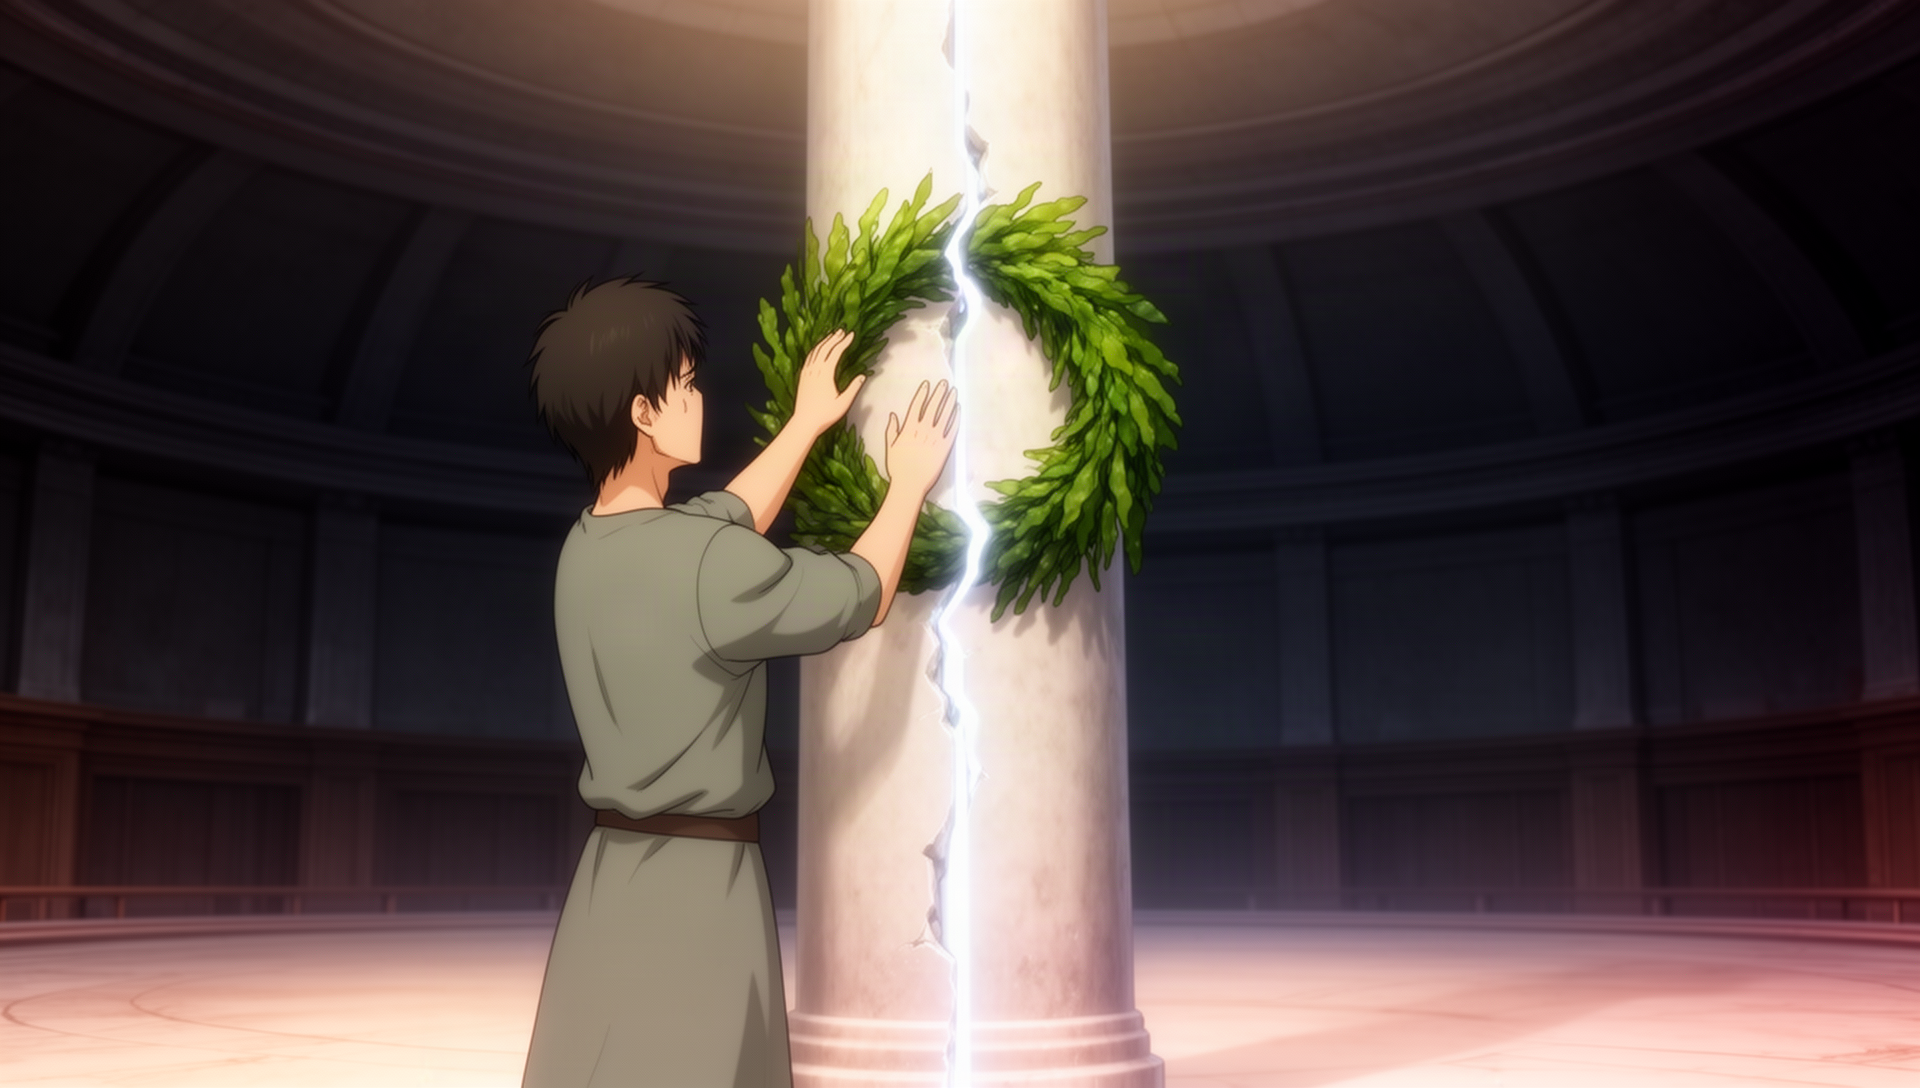
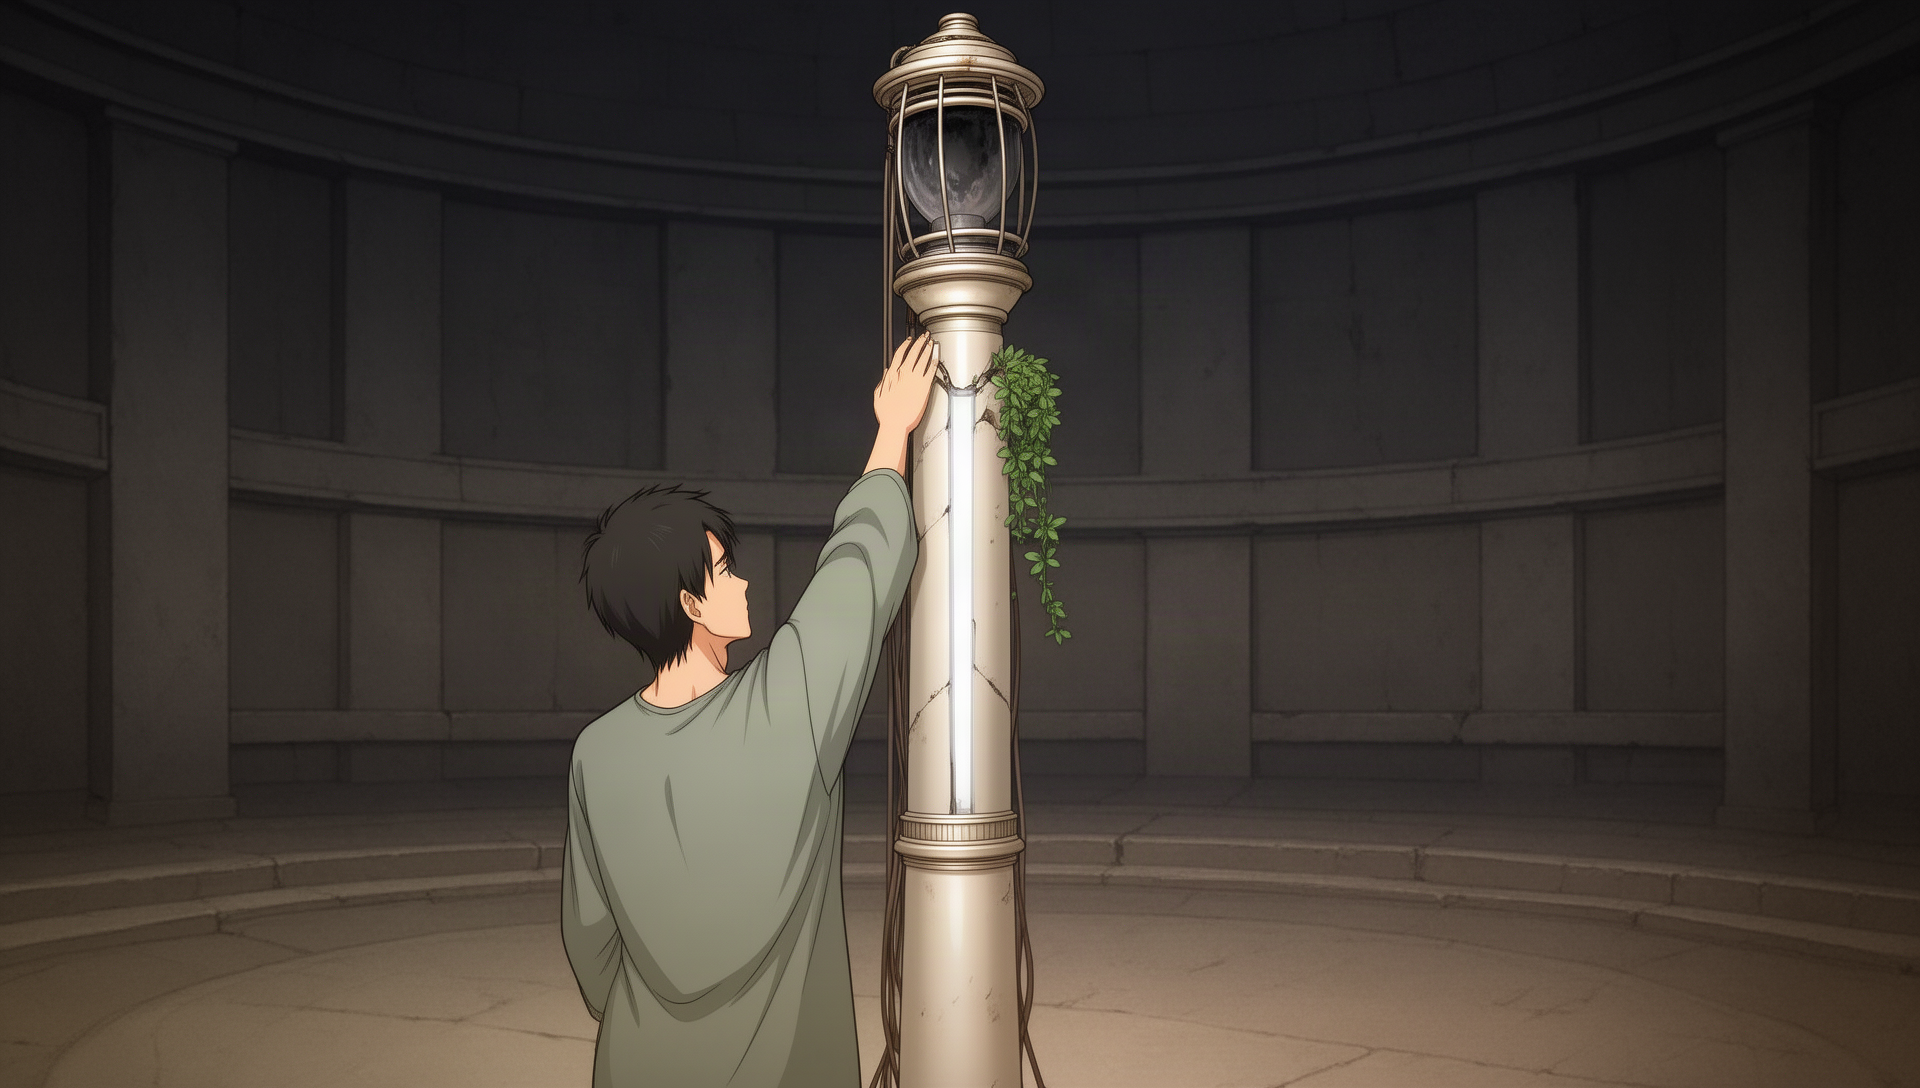
Maker lamp redesigned as a real old lamp; hall and two illustrations redone

diff --git a/art/bible.md b/art/bible.md
@@ -34,11 +34,15 @@ Wide 16:9, same style, no people. From the text (sentence ids from `work/units/c
 
 Wrack's second outfit, the sea-silk tunic (c01.s03.p023.3): `art/refs/ch01/wrack_tunic.png`. Made from his first sheet with the edit model; the face matches, the cloth does not shimmer.
 
+## The Maker lamp (owner's design change)
+
+The owner asked for a real, old lamp-like lamp, because mobile versions of it appear later in the story. Design in `art/refs/ch01/lamp/lamp_unlit.png`: a pale ivory metal column as thick as a man's waist, with ribbed collars, old bundled cables down one side, a caged glass lens housing near the top, a hairline seam at shoulder height (polished by touch), and the weed wreath. Dark when dead; the lens blazes white when it comes on. This replaces the earlier plain column that the source text described ("a smooth pale column from floor to roof... without a mark", c01.s04.p019.3, which the owner's cuts removed). Used in: `places/meeting_hall.png`, `cg/lamp_seam.png`, `cg/lamp_on.png`. Material matches the dome's white metal (c01.s02.p006.4).
+
 ## Known weaknesses
 
 - Wrack's crest is whole, not half ripped away, and its lettering is garbled. Fix before it appears large.
 - Skin tone is unstated for everyone but Oro. The model's default is pale for the others.
-- The meeting-hall column is lit white by a skylight. In the scene it is dark until Wrack opens it (c01.s04.p022), so a dark version is needed before that scene.
+- Sefa is not clearly visible in the lamp-on illustration.
 - The dome's panes look a little like glass. The text says "neither glass nor stone".
 - The dry room has no hammock or fire; the text gives none.
 - Expressions (see the manifest `needs`) are not made yet.
